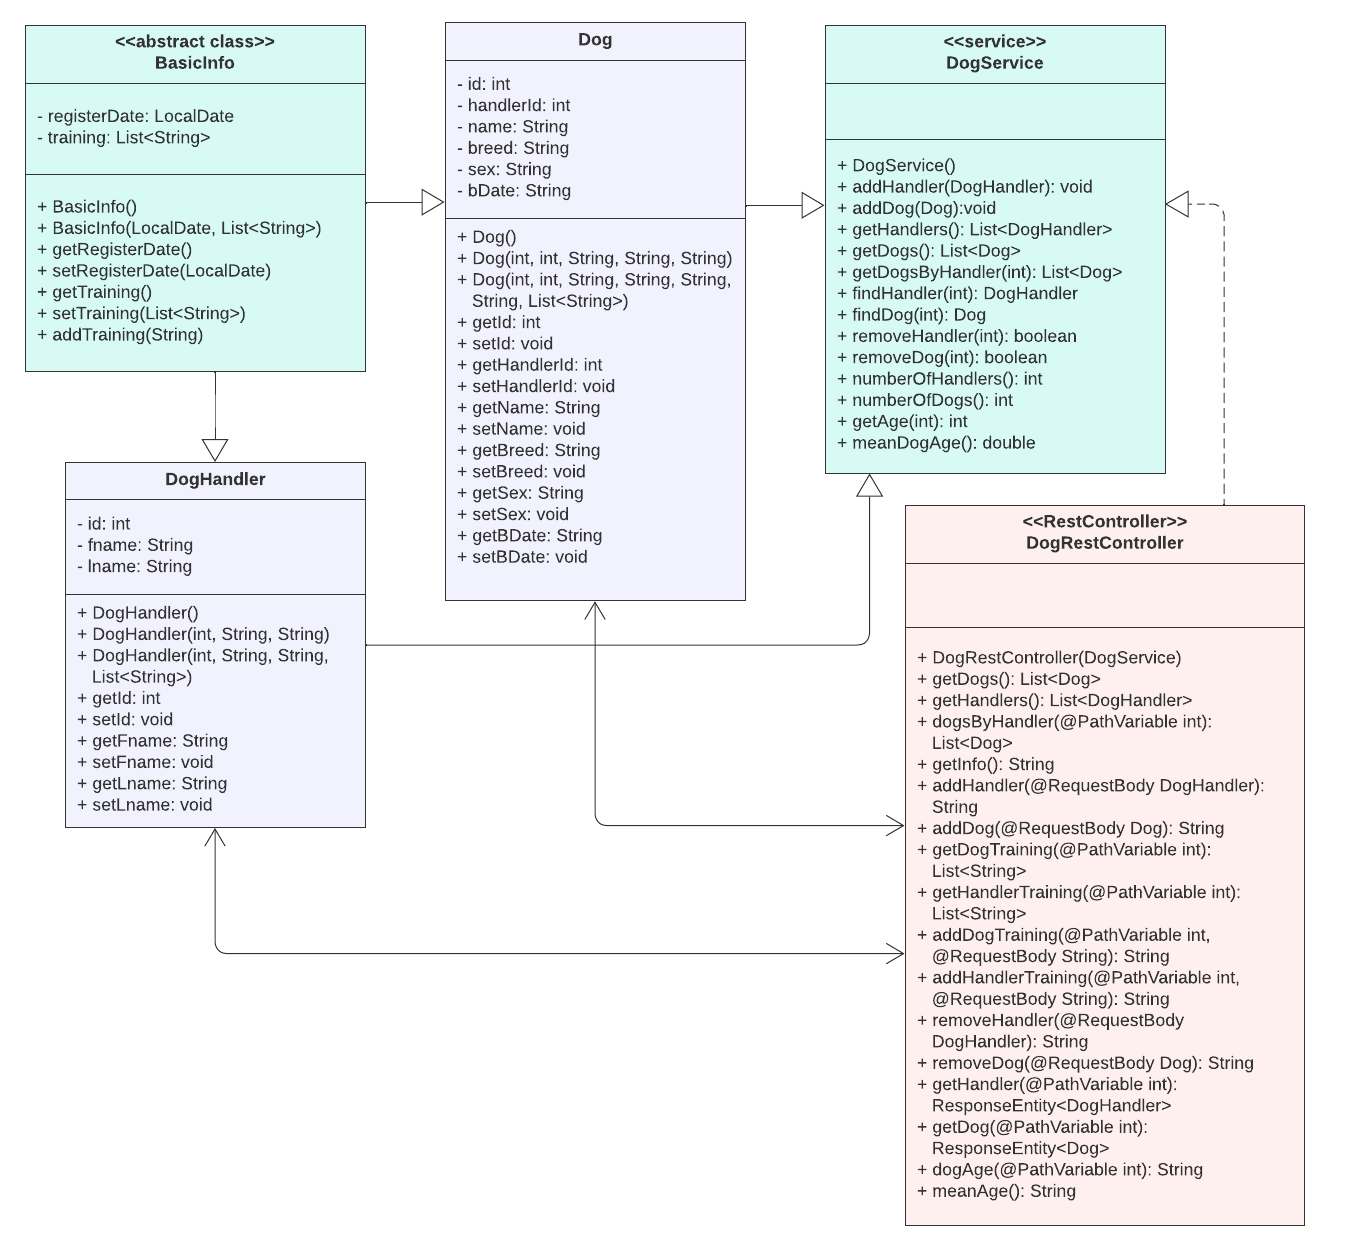
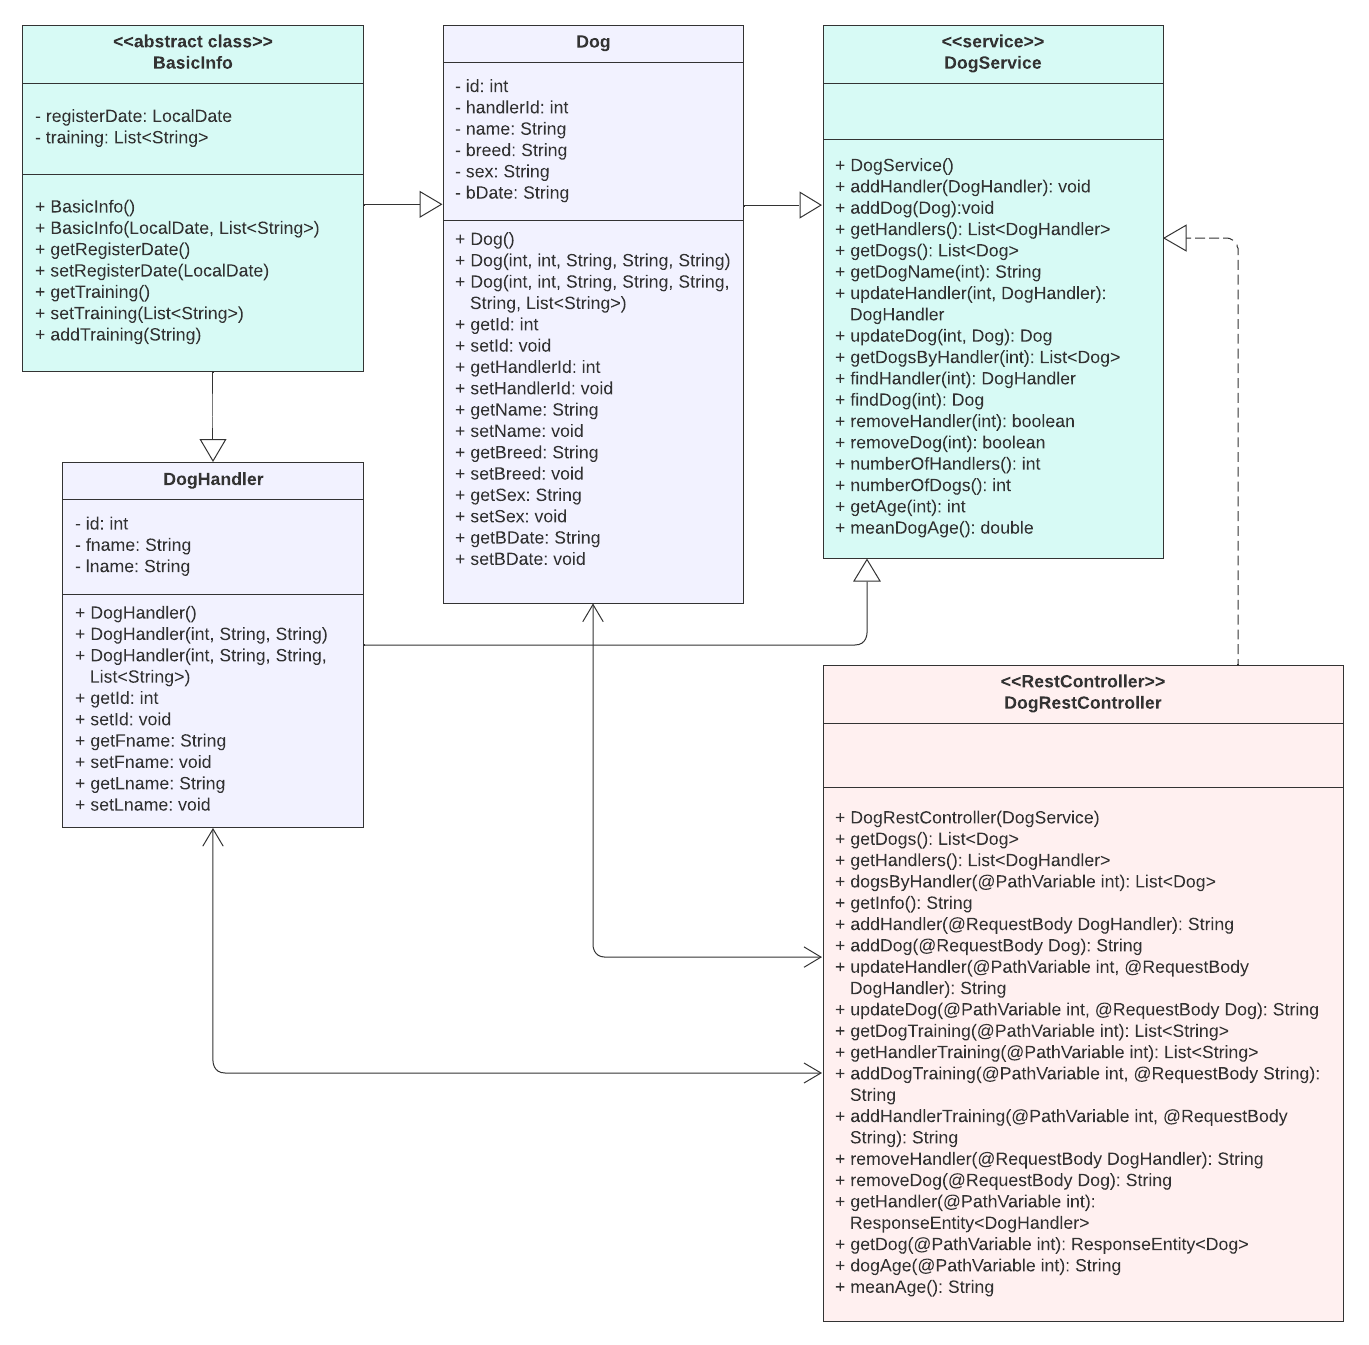
final commit

diff --git a/src/main/java/com/sardogs/registerapp/service/DogService.java b/src/main/java/com/sardogs/registerapp/service/DogService.java
@@ -28,6 +28,7 @@ public class DogService {
 
     }
 
+    // Add and get dogs and dog handlers
     public void addHandler(DogHandler handler) {
         handlers.add(handler);
     }
@@ -44,6 +45,36 @@ public class DogService {
         return new ArrayList<>(dogs);
     }
 
+    // Get dog's name by id
+    public String getDogName(int id) {
+        Dog dog = findDog(id);
+        return dog.getName();
+    }
+
+    // Update dogs and dog handlers
+    public DogHandler updateHandler(int id, DogHandler newData) {
+        DogHandler handler = findHandler(id);
+        newData.setId(id);
+        if(handler != null) {
+            newData.setRegisterDate(handler.getRegisterDate());
+            handlers.set(handlers.indexOf(handler), newData);
+            return newData;
+        }
+        return null;
+    }
+
+    public Dog updateDog(int id, Dog newData) {
+        Dog dog = findDog(id);
+        newData.setId(id);
+        if(dog != null) {
+            newData.setRegisterDate(dog.getRegisterDate());
+            dogs.set(dogs.indexOf(dog), newData);
+            return newData;
+        }
+        return null;
+    }
+
+    // Get one dog handlers dogs
     public List<Dog> getDogsByHandler(int handlerId) {
         List<Dog> newDogs = new ArrayList<>();
         for (Dog dog : dogs) {
@@ -54,6 +85,7 @@ public class DogService {
         return new ArrayList<>(newDogs);
     }
 
+    // Find dog and dog handler by id
     public DogHandler findHandler(int id) {
         for (DogHandler handler : handlers) {
             if(handler.getId() == id) {
@@ -72,6 +104,7 @@ public class DogService {
         return null;
     }
 
+    // Remove dog and dog handler
     public boolean removeHandler(int id) {
         DogHandler handler = findHandler(id);
     
@@ -90,6 +123,7 @@ public class DogService {
         return false;
     }
 
+    // Get number of registered dogs and dog handlers
     public int numberOfHandlers() {
         return handlers.size();
     }
@@ -98,13 +132,20 @@ public class DogService {
         return dogs.size();
     }
 
+    // Calculate age of the dog from birth date and current date
     public int getAge(int id) {
         Dog dog = findDog(id);
-        DateTimeFormatter formatter = DateTimeFormatter.ofPattern("yyyy-MM-dd");
-        LocalDate today = LocalDate.now();  
-        LocalDate birthDate = LocalDate.parse(dog.getBDate(), formatter);
-        return Period.between(birthDate, today).getYears();
+        if(dog != null) {
+            DateTimeFormatter formatter = DateTimeFormatter.ofPattern("yyyy-MM-dd");
+            LocalDate today = LocalDate.now();  
+            LocalDate birthDate = LocalDate.parse(dog.getBDate(), formatter);
+            return Period.between(birthDate, today).getYears();
+        }
+        return 999;
+
     }
+
+    
 
     public double meanDogAge() {
         double ageSum = 0;

diff --git a/src/main/java/com/sardogs/registerapp/rest/DogRestController.java b/src/main/java/com/sardogs/registerapp/rest/DogRestController.java
@@ -60,6 +60,23 @@ public class DogRestController {
         return "Dog added";
     }
 
+    // Update dogs and dog handlers
+    @PostMapping("/handlerupdate/{id}")
+    public String updateHandler(@PathVariable int id, @RequestBody DogHandler newHandler) {
+        if(ds.updateHandler(id, newHandler) != null) {
+            return "Dog handler updated"; 
+        }
+        return "Dog handler id was not found";
+    }
+
+    @PostMapping("/dogupdate/{id}")
+    public String updateDog(@PathVariable int id, @RequestBody Dog newDog) {
+        if(ds.updateDog(id, newDog) != null) {
+            return "Dog updated"; 
+        }
+        return "Dog id was not found";
+    }
+
     // Get dog's current trainings
     @GetMapping("/dogtrainings/{id}")
     public List<String> getDogTraining(@PathVariable int id) {
@@ -137,14 +154,14 @@ public class DogRestController {
     // Get one dogs age
     @GetMapping("/dogage/{id}")
     public String dogAge(@PathVariable int id) {
-        Dog dog = ds.findDog(id);
-        if(dog != null) {
+        if(ds.getAge(id) != 999) {
             if(ds.getAge(id) > 1) {
-                return dog.getName() +" is " + ds.getAge(id) + " years old.";
+                return ds.getDogName(id) + " is " + ds.getAge(id) + " years old";
             }
-            return dog.getName() +" is " + ds.getAge(id) + " year old.";
+            return ds.getDogName(id) + " is " + ds.getAge(id) + " year old";
+
         }
-        return "Dog id was not found";        
+        return "Dog id was not found";     
     }
 
     // Get mean age of all registered dogs
